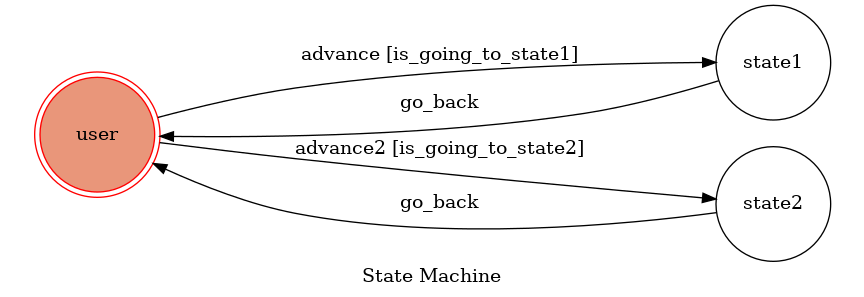
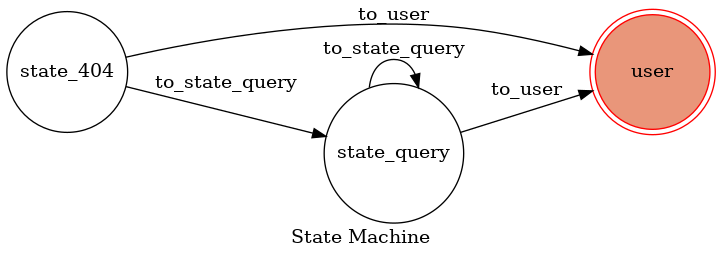
hehe bu shie commit message jein shown

diff --git a/app.py b/app.py
@@ -1,37 +1,37 @@
 import os
 import sys
+import time
 
 from flask import Flask, jsonify, request, abort, send_file
 from dotenv import load_dotenv
 from linebot import LineBotApi, WebhookParser
 from linebot.exceptions import InvalidSignatureError
 from linebot.models import MessageEvent, TextMessage, TextSendMessage
+from selenium import webdriver
 
 from fsm import TocMachine
 from utils import send_text_message
+from crawler import Crawler
 
 load_dotenv()
 
+print(time.strftime("%Y-%m-%d %H:%M:%S", time.localtime()))
 
-machine = TocMachine(
-    states=["user", "state1", "state2"],
-    transitions=[
-        {
-            "trigger": "adv",
-            "source": "user",
-            "dest": "state1",
-        },
-        {
-            "trigger": "adv",
-            "source": "userd",
-            "dest": "state2",
-        },
-        {"trigger": "go_back", "source": ["state1", "state2"], "dest": "user"},
-    ],
-    initial="user",
-    auto_transitions=False,
-    show_conditions=True,
-)
+os.system('pkill -9 chrome')
+os.system('rm ./sessions/*')
+driver_opt = webdriver.ChromeOptions()
+driver_opt.add_argument('--headless')
+driver_opt.add_argument('--disable_gpu')
+driver_opt.add_argument('--no-sandbox')
+driver_opt.add_argument('user-agent=Mozilla/5.0 (Windows NT 10.0; Win64; x64) AppleWebKit/537.36 (KHTML, like Gecko) Chrome/78.0.3904.70 Safari/537.36')
+prefs = {
+    'profile.managed_default_content_settings.images': 2,
+}
+driver_opt.add_experimental_option('prefs', prefs)
+driver = webdriver.Chrome('./chromedriver', chrome_options=driver_opt)
+
+crawler = Crawler(driver)
+
 
 app = Flask(__name__, static_url_path="")
 
@@ -48,7 +48,7 @@ if channel_access_token is None:
 
 line_bot_api = LineBotApi(channel_access_token)
 parser = WebhookParser(channel_secret)
-
+machine = {}
 
 @app.route("/callback", methods=["POST"])
 def callback():
@@ -98,31 +98,72 @@ def webhook_handler():
             continue
         if not isinstance(event.message.text, str):
             continue
-        print(f"\nFSM STATE: {machine.state}")
+
+        if not event.source.sender_id in machine.keys():
+            print('create machine')
+
+            if not os.path.isfile('./sessions/' + event.source.sender_id):
+                with open('./sessions/' + event.source.sender_id, 'w') as f:
+                    f.write('state_init')
+
+            with open('./sessions/' + event.source.sender_id, 'r') as f:
+                state = f.readline()
+
+            new_machine = TocMachine(crawler,
+                states=["state_init", "state_query", "state_routine"],
+                transitions=[
+                    {
+                        "trigger": "to_state_init",
+                        "source": ["state_query", "state_routine"],
+                        "dest": "state_init"
+                    },
+                    {
+                        "trigger": "to_state_query",
+                        "source": "state_init",
+                        "dest": "state_query"
+                    },
+                    {
+                        "trigger": "to_state_routine",
+                        "source": "state_init",
+                        "dest": "state_routine"
+                    },
+                ],
+                initial=state,
+                auto_transitions=False,
+                show_conditions=True,
+            )
+            machine[event.source.sender_id] = new_machine
+
+        state = machine[event.source.sender_id].state
+        print(machine[event.source.sender_id].state)
+        print(f"\nFSM STATE: {machine[event.source.sender_id].state}")
         print(f"REQUEST BODY: \n{body}")
+        response = False
+        if state == 'state_query':
+            if event.message.text == 'exit':
+                response = machine[event.source.sender_id].to_state_init(event)
+            else:
+                send_text_message(event.source.sender_id, event.message.text)
 
-        if not os.path.isfile('./sessions/' + event.source.sender_id):
-            with open('./sessions/' + event.source.sender_id, 'w') as f:
-                f.write('user')
+        elif event.message.text == 'routine':
+            response = machine[event.source.sender_id].to_state_routine(event)
+        elif event.message.text == 'query':
+            response = machine[event.source.sender_id].to_state_query(event)
+        else:
+            send_text_message(event.source.sender_id, "command not found")
 
-        with open('./sessions/' + event.source.sender_id, 'r') as f:
-            state = f.readline()
-
-        print(machine.state)
-        response = machine.adv(event)
-        print(machine.state)
-        if response == False:
-            send_text_message(event.source.sender_id, "Not Entering any State")
 
     return "OK"
 
 
 @app.route("/show-fsm", methods=["GET"])
 def show_fsm():
-    machine.get_graph().draw("fsm.png", prog="dot", format="png")
+    #machine.get_graph().draw("fsm.png", prog="dot", format="png")
     return send_file("fsm.png", mimetype="image/png")
 
 
 if __name__ == "__main__":
     port = os.environ.get("PORT", 8000)
     app.run(host="0.0.0.0", port=port, debug=True)
+
+driver.quit()

diff --git a/crawler.py b/crawler.py
@@ -1,0 +1,79 @@
+from selenium import webdriver
+import time
+import random
+import re
+import io
+
+
+class Crawler():
+    def __init__(self, driver):
+        self.driver = driver
+    def routine(self):
+        driver = self.driver
+        path = re.sub('crawler.py', '', __file__)
+        path = path + './'
+
+        db = {}
+        queries = []
+        try:
+            with io.open(path + 'ruten.db', 'r') as f:
+                for line in f.readlines():
+                    clean_line = re.sub('\s', '', line)
+                    db[clean_line] = 1
+        except Exception:
+            print('no Exist db')
+
+        with io.open(path + 'query.db', 'r') as f:
+            for line in f.readlines():
+                clean_line = re.sub('\s', '', line)
+                queries.append(clean_line)
+
+        ban_flag = True
+        email_content = 'Query Data:\n'
+
+        for query in queries:
+            if len(query) < 5 :
+                continue
+            print(query)
+            driver.get(query)
+            titles = driver.find_elements_by_xpath('//*[@id="ProdGridContainer"]/dl/dd/dl/dd/div/h5/a')
+            for title in titles:
+                ban_flag = False
+                #if title.get_attribute('href') in db:
+                #    continue
+                print(title.get_attribute('innerHTML'))
+                print(title.get_attribute('href'))
+                with io.open(path + 'ruten.db', 'a') as f:
+                    f.write(title.get_attribute('href') + '\n')
+                    email_content = email_content + title.get_attribute('innerHTML') + '\n' + title.get_attribute('href') + '\n\n'
+
+
+        if ban_flag == True:
+            print('baned');
+
+        return email_content
+
+    def query(self, query):
+        driver = self.driver
+
+        ban_flag = True
+        email_content = 'Query Data:\n'
+
+        if len(query) < 5 :
+            return email_content
+
+        print(query)
+        driver.get(query)
+        titles = driver.find_elements_by_xpath('//*[@id="ProdGridContainer"]/dl/dd/dl/dd/div/h5/a')
+        for title in titles:
+            ban_flag = False
+
+            print(title.get_attribute('innerHTML'))
+            print(title.get_attribute('href'))
+            email_content = email_content + title.get_attribute('innerHTML') + '\n' + title.get_attribute('href') + '\n\n'
+
+
+        if ban_flag == True:
+            print('baned');
+
+        return email_content

diff --git a/fsm.py b/fsm.py
@@ -1,34 +1,49 @@
 from transitions.extensions import GraphMachine
 
 from utils import send_text_message
+from crawler import Crawler
 
 
-class TocMachine(GraphMachine):
-    def __init__(self, **machine_configs):
+class TocMachine(Crawler, GraphMachine):
+    def __init__(self, crawler, **machine_configs):
         self.machine = GraphMachine(model=self, **machine_configs)
-
-    def on_enter_user(self, event):
-        print("enter user")
+        self.crawler = crawler
+##### init
+    def on_enter_state_init(self, event):
+        with open('./sessions/' + event.source.sender_id, 'w') as f:
+            f.write('state_init')
+        print("enter init")
         reply_token = event.source.sender_id
-        send_text_message(reply_token, "Trigger user")
+        send_text_message(reply_token, "init")
+##### routine
+    def on_enter_state_routine(self, event):
+        with open('./sessions/' + event.source.sender_id, 'w') as f:
+            f.write('state_routine')
+        print("I'm entering state_routine")
+        reply_token = event.source.sender_id
+        send_text_message(reply_token, "routine")
 
-    def on_enter_state1(self, event):
-        print("I'm entering state1")
+        message = self.crawler.routine()
+        send_text_message(reply_token, message)
+
+        self.to_state_init(event)
+
+    def on_exit_state_routine(self, event):
+        print("Leaving state_routine")
+##### query
+    def on_enter_state_query(self, event):
+        print("I'm entering state_query")
+        with open('./sessions/' + event.source.sender_id, 'w') as f:
+            f.write('state_query')
 
         reply_token = event.source.sender_id
-        print(reply_token)
-        send_text_message(reply_token, "Trigger state1")
-        self.go_back(event)
+        send_text_message(reply_token, "query")
 
-    def on_exit_state1(self, event):
-        print("Leaving state1")
+        # message = self.crawler.query()
+        # send_text_message(reply_token, message)
 
-    def on_enter_state2(self, event):
-        print("I'm entering state2")
+        # self.to_state_init(event)
 
-        reply_token = event.source.sender_id
-        send_text_message(reply_token, "Trigger state2")
-        self.go_back(event)
+    def on_exit_state_query(self, event):
+        print("Leaving state_query")
 
-    def on_exit_state2(self, event):
-        print("Leaving state2")
